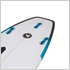
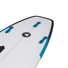
Change images

diff --git a/css/surfers.css b/css/surfers.css
@@ -171,15 +171,22 @@ a {
   margin-top: 75px;
 }
 
-.active-images {
-  border: 2px solid #00B0FF;
-}
 
 .list-image-slide {
   display: inline-block;
   vertical-align: top;
   margin-top: 183px;
   margin-left: 20px;
+}
+
+.list-image-slide img {
+  border: 1px solid #868686;
+  width: 70px;
+  height: 70px;
+}
+
+.active-images {
+  border: 2px solid #00B0FF !important;
 }
 
 .right-background-slide {

diff --git a/surfers.html b/surfers.html
@@ -74,7 +74,7 @@
           <div class="list-image-slide">
             <ul>
               <li>
-                <img src="images/detail-images.png" alt="#images1">
+                <img src="images/detail-images5.png" alt="#images1">
               </li>
               <li>
                 <img src="images/detail-images3.png" alt="#images2">
